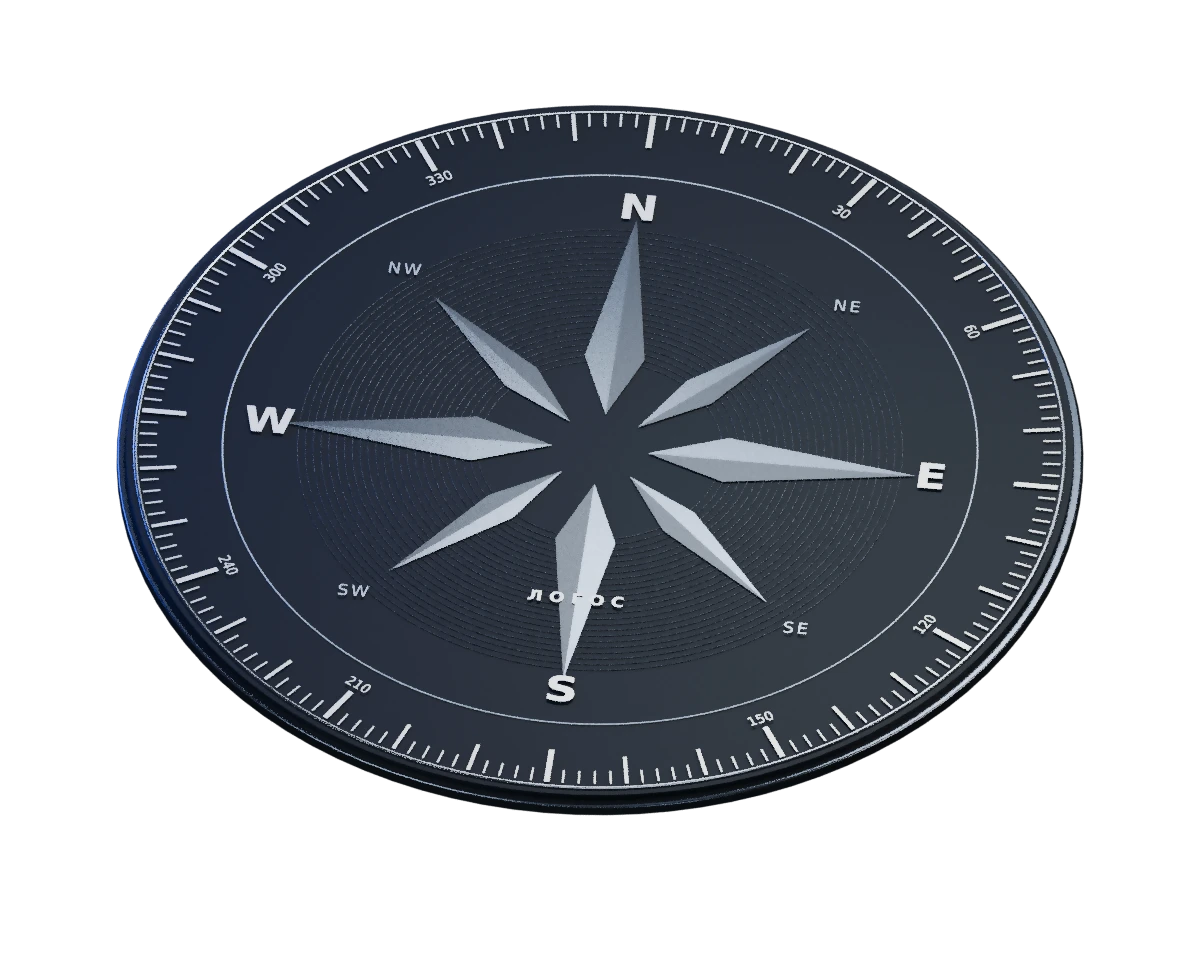
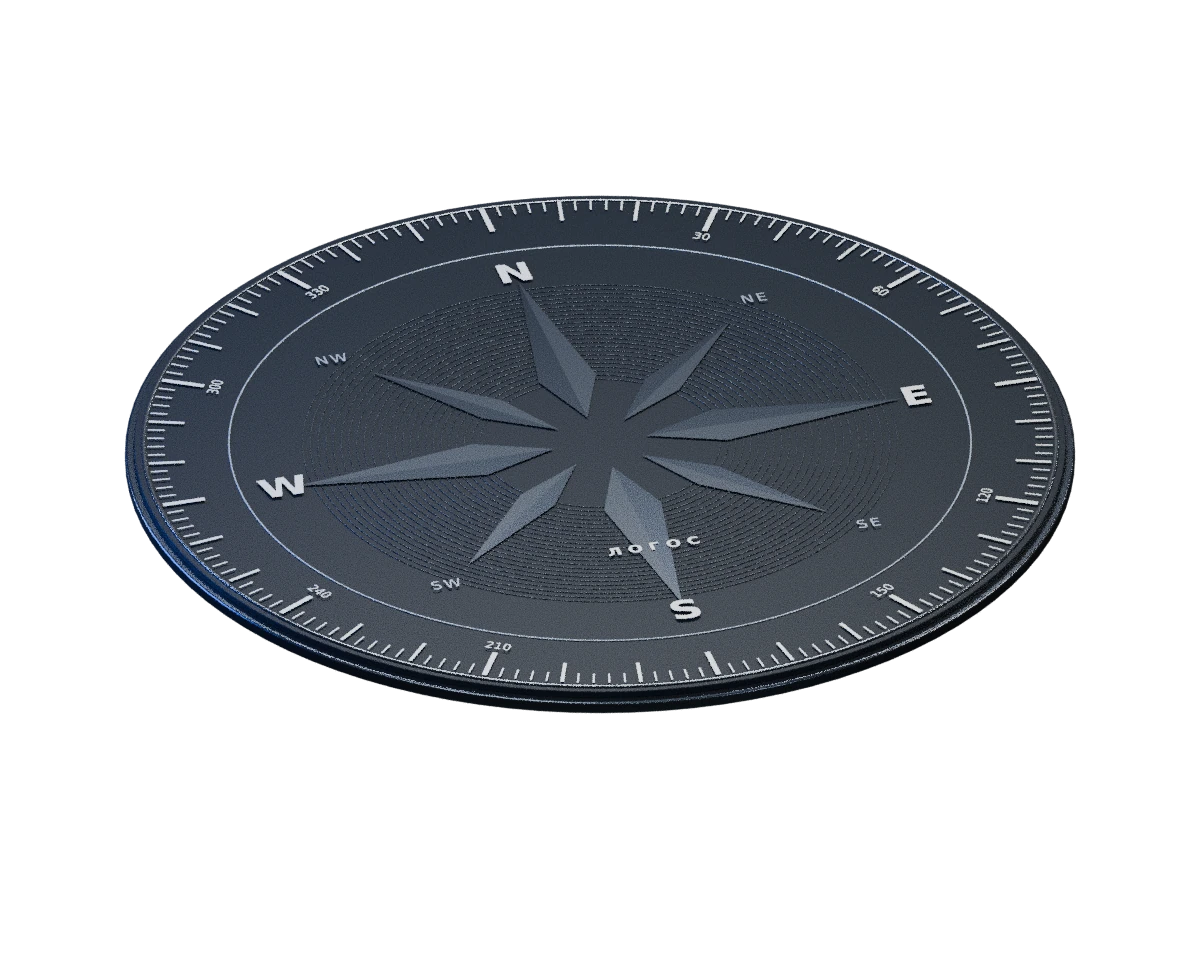
Reframe the Blender compass landing around the college floor plan

Changed region(s): [[0.0925, 0.0933, 0.925, 0.8705], [0.3083, 0.2798, 0.3392, 0.3109]]

diff --git a/src/components/EditionHome.jsx b/src/components/EditionHome.jsx
@@ -1,12 +1,16 @@
 import { useEffect, useRef, useState } from 'react'
 import { Link, useNavigate } from 'react-router-dom'
 import { ArrowRight, Search } from 'lucide-react'
+import { rooms } from '../data.js'
+import { roomOutline } from '../map-geometry.js'
 import FloorMap from './FloorMap.jsx'
 import CompassFilm from './CompassFilm.jsx'
 import './compass-film.css'
 
 const staticLayout = '(prefers-reduced-motion: reduce), (max-height: 590px) and (max-width: 760px)'
 const exampleRoute = '/route?from=entrance-1&to=informatics-222'
+const floorDrawing = rooms.filter(room => room.floor === 2)
+  .map(room => 'M' + roomOutline(room.id).map(point => point.join(',')).join('L') + 'Z').join(' ')
 const clamp = value => Math.max(0, Math.min(1, value))
 function ramp(start, end, progress) {
   const t = clamp((progress - start) / (end - start))
@@ -28,7 +32,8 @@ export default function EditionHome({ search }) {
     const introduction = intro.current
     const routePanel = route.current
     const atlas = plan.current
-    const chapterNav = sticky.querySelector("nav")
+    const chapterNav = sticky.querySelector(".instrument-index")
+    const places = sticky.querySelector('.instrument-places')
     const reduced = matchMedia(staticLayout)
     let frame = 0
     function draw() {
@@ -50,6 +55,7 @@ export default function EditionHome({ search }) {
       atlas.inert = !staticView && p < .93
       chapterNav.inert = !staticView && p >= .74
       introduction.inert = !staticView && introFade > .9
+      places.inert = introduction.inert
       routePanel.inert = !staticView && routeOpacity < .1
       setChapter(staticView || p < .31 ? 0 : 1)
     }
@@ -97,15 +103,22 @@ export default function EditionHome({ search }) {
   return <div className="instrument-home" id="top">
     <section ref={stage} className="instrument-stage" aria-labelledby="instrument-title">
       <div className="instrument-sticky">
-        <div className="instrument-terrain" aria-hidden="true" />
+        <div className="instrument-terrain" aria-hidden="true">
+          <svg className="instrument-drawing" viewBox="0 0 767 561" preserveAspectRatio="xMidYMid slice"><path d={floorDrawing} /></svg>
+        </div>
         <div className="instrument-intro" ref={intro} tabIndex={-1}>
-          <h1 id="instrument-title">Логос <span>Путеводитель</span></h1>
-          <p>Кабинеты и маршруты по колледжу.</p>
+          <h1 id="instrument-title"><span>Логос</span>Путеводитель</h1>
+          <p>Найдите кабинет, преподавателя или дорогу от входа до пары.</p>
           <div className="instrument-actions">
             <Link className="instrument-primary" to="/map">Открыть карту</Link>
             <button type="button" onClick={openRoomSearch}><Search size={16} aria-hidden="true" />Найти кабинет</button>
           </div>
         </div>
+        <nav className="instrument-places" aria-label="Частые направления">
+          <Link to="/map?floor=1&room=canteen">Столовая</Link>
+          <Link to="/map?floor=2&room=library-214">Библиотека</Link>
+          <Link to="/map?floor=1&room=auditorium-104">Актовый зал</Link>
+        </nav>
         <CompassFilm />
         <div className="instrument-route" ref={route} tabIndex={-1}>
           <img className="instrument-static-exploded" src="/instrument/exploded.webp" loading="lazy" alt="" />

diff --git a/src/components/compass-film.css b/src/components/compass-film.css
@@ -328,3 +328,53 @@ html[data-edition="v2"] .instrument-atlas-sheet .floor-map-zoom-controls button 
   .instrument-terrain::after { mask-image: radial-gradient(ellipse 92% 50% at 0% 94%, black, transparent 100%); }
   .instrument-atlas-key a:first-child { flex-basis: 100%; }
 }
+
+/* A plan sheet and an optical bench share the same graphite surface. */
+.instrument-terrain {
+  background: radial-gradient(ellipse at 82% 45%,#354457 0%,#20262c 31%,transparent 62%),#151719;
+}
+.instrument-terrain::after { background: none; }
+.instrument-drawing {
+  position:absolute; inset: 0; width:100%; height:100%; fill:none; stroke:#cad5df; stroke-width:.48;
+  opacity:.17; transform: perspective(1200px) rotateX(48deg) rotateZ(-24deg) scale(1.35);
+  mask-image: linear-gradient(120deg, transparent 8%, #0005 36%, black 82%);
+}
+.instrument-places {
+  position:absolute; z-index:3; display:flex; align-items:center; gap:22px;
+  left:7%; bottom:6%; opacity:var(--intro-alpha);
+}
+.instrument-places a {
+  display:inline-flex; align-items:center; min-height:44px; color:#bec6cd;
+  font-size:14px; text-decoration:underline; text-decoration-color:#657078;
+  text-underline-offset:5px;
+}
+.instrument-places a:hover { color:white; }
+.instrument-intro #instrument-title { letter-spacing:-.065em; font-weight:560; }
+.instrument-intro #instrument-title span { display:block; color:#b2bbc4; }
+.instrument-home .instrument-primary { border-radius:4px; box-shadow:none; }
+.instrument-atlas-sheet { background-image: radial-gradient(ellipse at 50% 50%,#27313a,transparent 72%); background-size:cover; }
+.instrument-itinerary small { font-family:monospace; }
+@media (min-width: 761px) and (prefers-reduced-motion: no-preference) {
+  .instrument-stage { --axis-x:69%; --axis-y:51%; }
+  .instrument-intro {
+    left:7%; top:46%; width:45%; text-align:left; padding:0;
+    transform:translateY(calc(-45% - 44px * (1 - var(--intro-alpha))));
+  }
+  .instrument-intro #instrument-title { font-size:clamp(50px,5.7vw,115px); margin:0; line-height:.99; }
+  .instrument-home .instrument-intro p { margin:24px 0 0; max-width:33ch; line-height:1.45; }
+  .instrument-actions { justify-content:flex-start; gap:24px; margin-top:28px; }
+  .instrument-object {
+    width:min(53vw,94svh); left:calc(70% - 1% * var(--shift)); top:calc(53% - 2% * var(--shift));
+    transform:translate(-50%,-50%) rotate(calc(-15deg + 19deg * var(--shift))) scale(calc(1 - .34 * var(--shift) + 1.9 * var(--dive)));
+  }
+  .instrument-shadow { left:71%; top:77%; width:38vw; }
+  .instrument-route { left:7%; }
+  .instrument-index { left:auto; right:7%; bottom:6%; border:0; }
+}
+@media (max-width:760px) {
+  .instrument-drawing { opacity:.1; }
+  .instrument-intro #instrument-title { font-size:clamp(38px,10.7vw,70px); }
+  .instrument-places { display:none; }
+  .instrument-home .instrument-intro p { max-width:31ch; }
+}
+@media (prefers-reduced-motion:reduce) { .instrument-places { display:none; } }

diff --git a/src/locales/en.js b/src/locales/en.js
@@ -1,5 +1,7 @@
 // English UI catalogue; keys are the original Russian presentation strings.
 export const english = {
+  'Найдите кабинет, преподавателя или дорогу от входа до пары.': 'Find a classroom, a teacher or your way from the entrance to class.',
+  'Частые направления': 'Common destinations',
   'Кабинеты и маршруты по колледжу.': 'Rooms and routes around the college.',
   'Ищите по номеру кабинета или фамилии преподавателя.': 'Search by room number or teacher’s surname.',
   'Логос': 'Logos',
